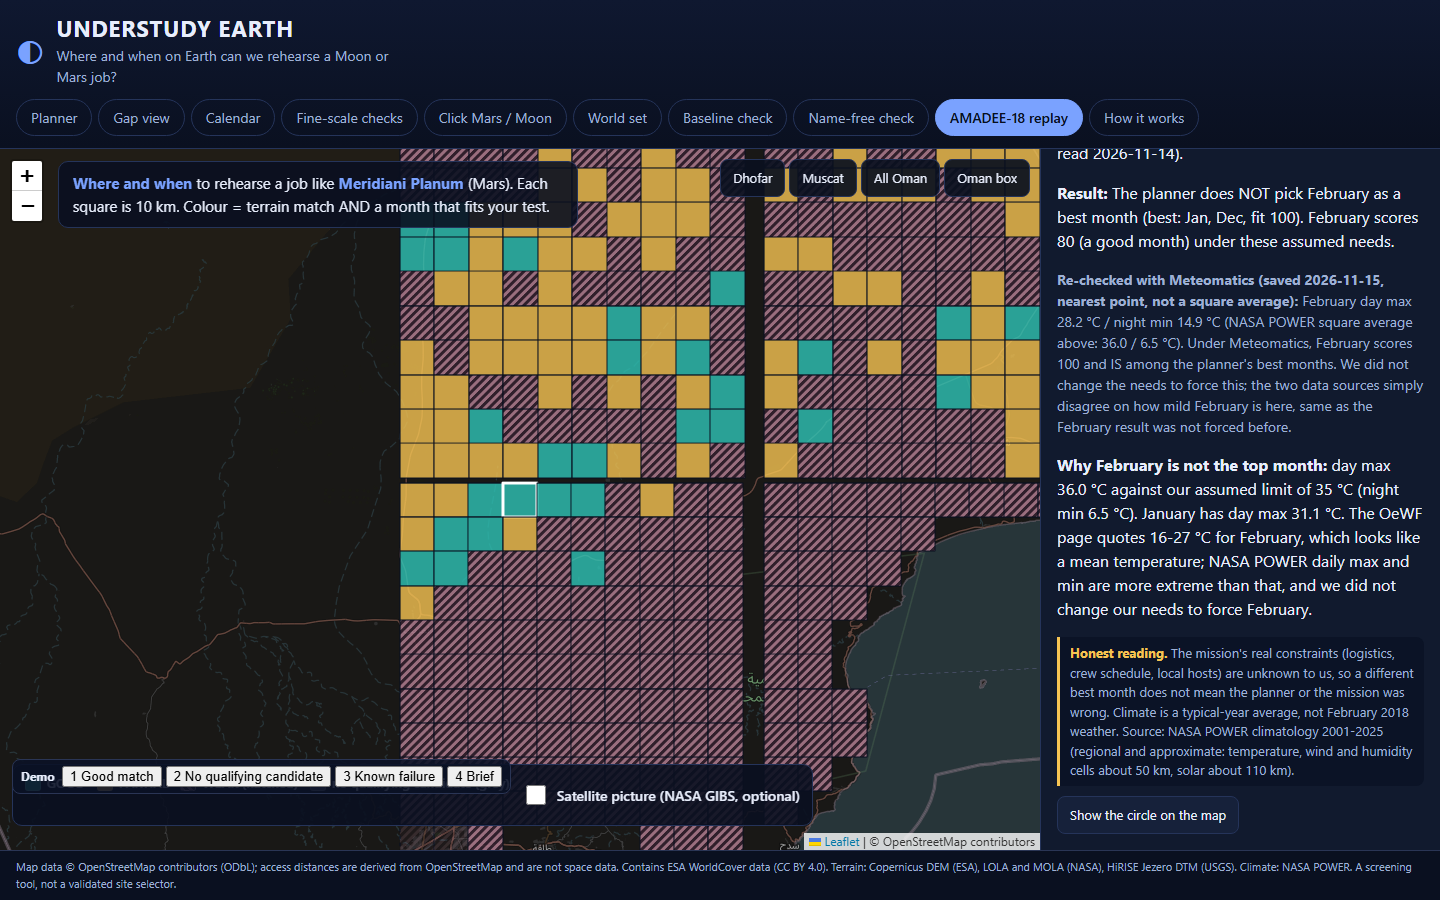
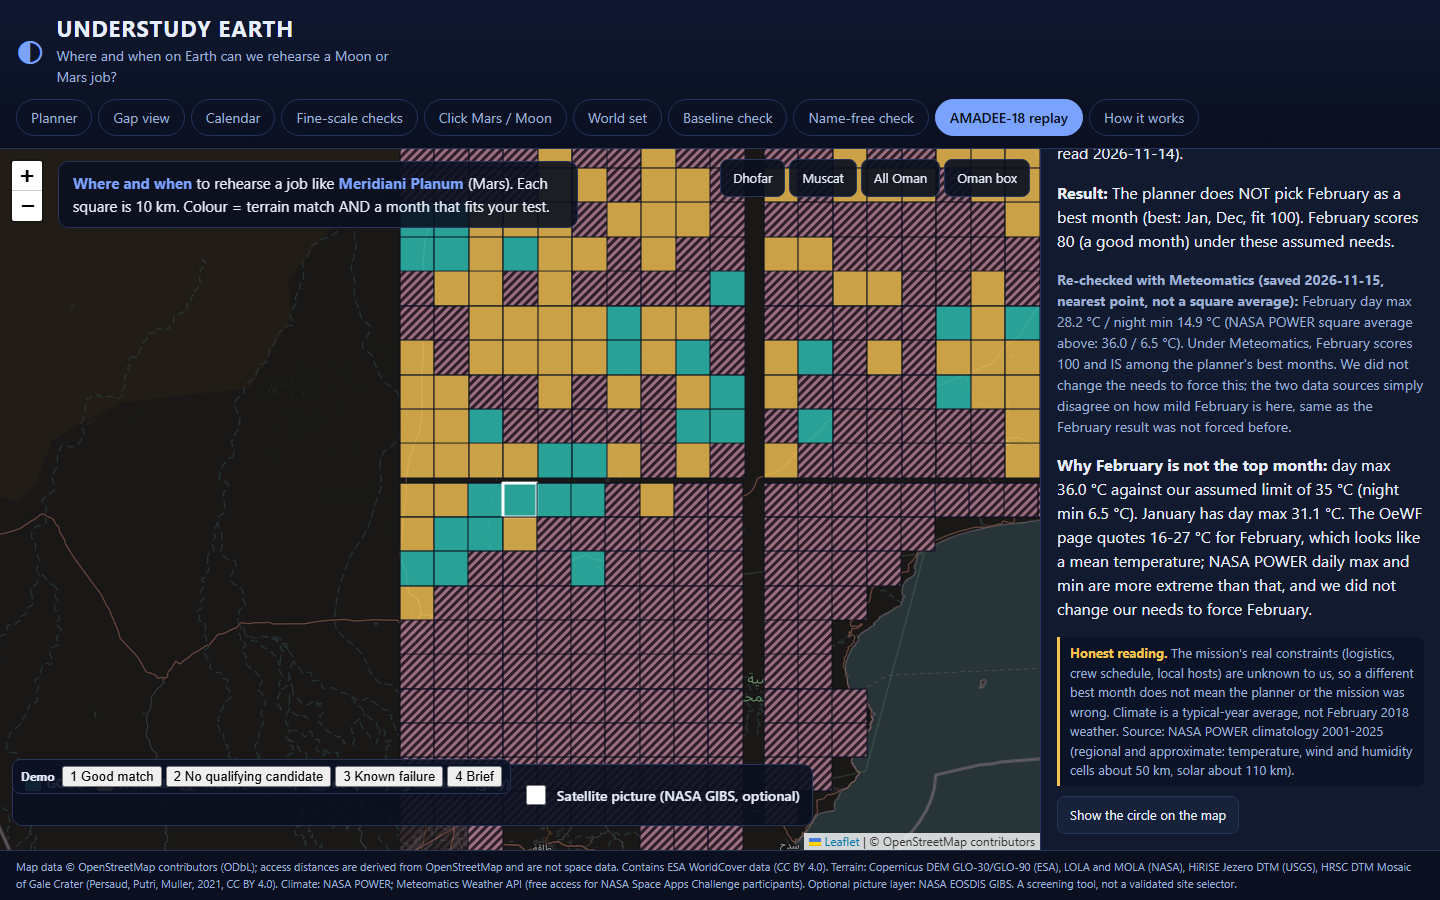
credit all new data sources in the footer: Gale HRSC mosaic, GIBS, Meteomatics, GLO-90

Changed region(s): [[0.0, 0.9333, 0.9688, 0.9956]]

diff --git a/app/index.html b/app/index.html
@@ -110,11 +110,11 @@
       <h3>What our data cannot see</h3>
       <ul class="cant"><li>Rocks, steps and slopes smaller than 500 m</li><li>Earth heights are a surface model (trees, buildings); Moon and Mars are bare ground</li><li>Climate is a typical-year average on a coarse grid (NASA POWER temperature, wind and humidity cells about 50 km, solar about 110 km), not local weather</li><li>Moon: south pole only. Oman: only the tiles we hold.</li></ul>
       <h3>Checks</h3><div id="second"></div>
-      <p class="credit">Data: LOLA (NASA/GSFC), MOLA (NASA/USGS), NASA POWER climatology, Copernicus DEM GLO-30 (ESA), ESA WorldCover 2021 (CC BY 4.0). Basemap &copy; OpenStreetMap contributors. Code: Apache 2.0.</p>
+      <p class="credit">Data: LOLA (NASA/GSFC), MOLA (NASA/USGS), NASA POWER climatology, Copernicus DEM GLO-30/GLO-90 (ESA), ESA WorldCover 2021 (CC BY 4.0), HRSC DTM Mosaic of Gale Crater (Persaud/Putri/Muller 2021, CC BY 4.0), NASA EOSDIS GIBS, Meteomatics Weather API (free Space Apps participant access). Basemap &copy; OpenStreetMap contributors. Code: Apache 2.0.</p>
     </div>
   </aside>
 </main>
-<footer class="foot">Map data &copy; OpenStreetMap contributors (ODbL); access distances are derived from OpenStreetMap and are not space data. Contains ESA WorldCover data (CC BY 4.0). Terrain: Copernicus DEM (ESA), LOLA and MOLA (NASA), HiRISE Jezero DTM (USGS). Climate: NASA POWER. A screening tool, not a validated site selector.</footer>
+<footer class="foot">Map data &copy; OpenStreetMap contributors (ODbL); access distances are derived from OpenStreetMap and are not space data. Contains ESA WorldCover data (CC BY 4.0). Terrain: Copernicus DEM GLO-30/GLO-90 (ESA), LOLA and MOLA (NASA), HiRISE Jezero DTM (USGS), HRSC DTM Mosaic of Gale Crater (Persaud, Putri, Muller, 2021, CC BY 4.0). Climate: NASA POWER; Meteomatics Weather API (free access for NASA Space Apps Challenge participants). Optional picture layer: NASA EOSDIS GIBS. A screening tool, not a validated site selector.</footer>
 <div id="brief" class="brief" hidden></div>
 <script src="https://unpkg.com/leaflet@1.9.4/dist/leaflet.js"></script>
 <script src="score.js"></script>
